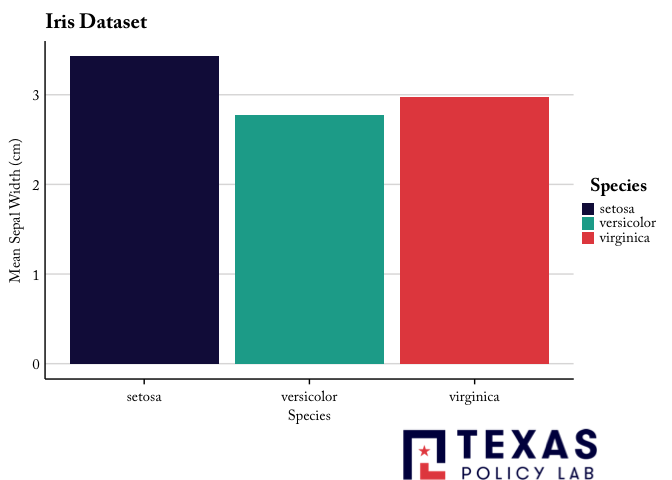
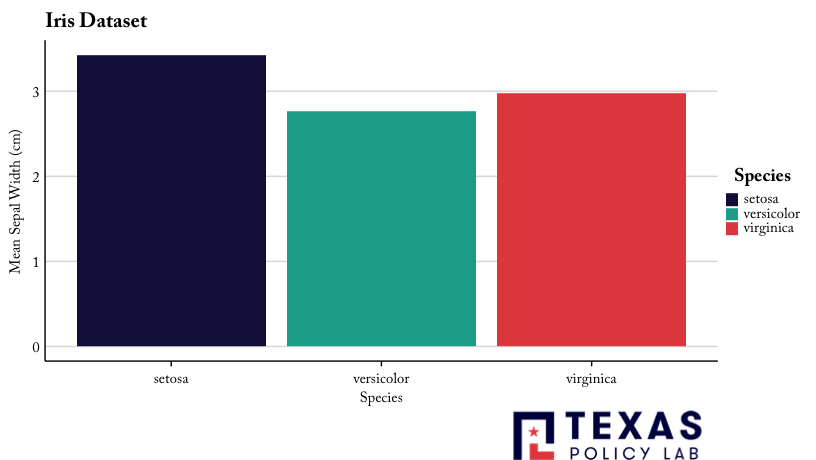
final (?) README/vignette update

diff --git a/README.md b/README.md
@@ -7,10 +7,11 @@
 
 ``` r
 if (!require('devtools')) install.packages('devtools')
-config <- yaml::read_yaml("https://raw.githubusercontent.com/connorrothschild/tpltheme/master/config.yaml", eval.expr = TRUE)
 library(ggplot2)
-#library(tpltheme)
-devtools::load_all()
+library(tidyverse)
+
+devtools::install_github("connorrothschild/tpltheme")
+library(tpltheme)
 ```
 
 ## Plotting
@@ -29,23 +30,22 @@ The user is able to specify whether they want to use *Lato* or *Adobe
 Caslon Pro* in their figures.
 
 To ensure that these fonts are installed and registered, use
-`font_test()`. If fonts are not properly installed, install both fonts
-online and then run `font_install()`.
+`tpl_font_test()`. If fonts are not properly installed, install both
+fonts online and then run `tpl_font_install()`.
 
 ``` r
-font_test()
+tpl_font_test()
 ```
 
-    #> [1] "Lato isn't imported and registered. Install the font online and import and register using font_install()."
+    #> [1] "Adobe Caslon Pro is not imported and registered. Install the font online and import and register using font_install(). If that presents problems, try using sysfonts::font_add('Adobe Caslon Pro', regular = 'Adobe Caslon Pro.ttf') with your downloaded font name taking the place of 'Adobe Caslon Pro.ttf.'"
 
 ``` r
-font_install()
+tpl_font_install()
 ```
 
     #> Importing fonts may take a few minutes, depending on the number of fonts and the speed of the system.
-    #> Continue? [y/n]
-
-    #> [1] "Lato isn't imported and registered. Install the font online and import and register using font_install()."
+    #> Continue? [y/n] 
+    #> [1] "Adobe Caslon Pro is not imported and registered. Install the font online and import and register using font_install(). If that presents problems, try using sysfonts::font_add('Adobe Caslon Pro', regular = 'Adobe Caslon Pro.ttf') with your downloaded font name taking the place of 'Adobe Caslon Pro.ttf.'"
 
 ### Usage
 
@@ -56,8 +56,6 @@ Here are some examples of sample TPL plots with different specifications
 for `style` and `font`.
 
 ``` r
-#library(tidyverse)
-#library(tpltheme)
 set_tpl_theme(style = "print", font = "adobe")
 
 ggplot(iris, aes(x=Species, y=Sepal.Width, fill=Species)) +
@@ -65,7 +63,7 @@ ggplot(iris, aes(x=Species, y=Sepal.Width, fill=Species)) +
     labs(x="Species", y="Mean Sepal Width (cm)", fill="Species", title="Iris Dataset")
 ```
 
-![](man/figures/README-unnamed-chunk-4-1.png)<!-- -->
+<img src="man/figures/README-unnamed-chunk-4-1.png" style="display: block; margin: auto;" />
 
 ``` r
 set_tpl_theme(style = "print", font = "lato")
@@ -75,7 +73,7 @@ ggplot(iris, aes(x=jitter(Sepal.Width), y=jitter(Sepal.Length), col=Species, siz
     labs(x="Sepal Width (cm)", y="Sepal Length (cm)", col="Species", size = "Petal Length", title="Iris Dataset")
 ```
 
-![](man/figures/README-unnamed-chunk-5-1.png)<!-- -->
+<img src="man/figures/README-unnamed-chunk-5-1.png" style="display: block; margin: auto;" />
 
 By specifying `style = "Texas"` within `set_tpl_theme`, the user may
 also create Texas-specific plots.
@@ -94,7 +92,7 @@ ggplot2::ggplot(data = tx_vac, mapping = ggplot2::aes(x = long, y = lat, group =
        caption = "Source: Texas DSHS")
 ```
 
-![](man/figures/README-unnamed-chunk-6-1.png)<!-- -->
+<img src="man/figures/README-unnamed-chunk-6-1.png" style="display: block; margin: auto;" />
 
 And it also works for categorical variables:
 
@@ -114,7 +112,7 @@ tx_vac %>%
        caption = "Source: Texas DSHS")
 ```
 
-![](man/figures/README-unnamed-chunk-7-1.png)<!-- -->
+<img src="man/figures/README-unnamed-chunk-7-1.png" style="display: block; margin: auto;" />
 
 If the number of colors exceeds the number of colors in the TPL palette
 (9), the function `tpl_color_pal()` will drop the TPL color palette and
@@ -131,7 +129,7 @@ tx_vac %>%
   labs(title = "Texas Counties")
 ```
 
-![](man/figures/README-unnamed-chunk-8-1.png)<!-- -->
+<img src="man/figures/README-unnamed-chunk-8-1.png" style="display: block; margin: auto;" />
 
 ``` r
 # default to print afterwards
@@ -156,7 +154,7 @@ plot <- ggplot(iris, aes(x=jitter(Sepal.Width), y=jitter(Sepal.Length), col=Spec
 add_tpl_logo(plot)
 ```
 
-![](man/figures/README-unnamed-chunk-9-1.png)<!-- -->
+<img src="man/figures/README-unnamed-chunk-9-1.png" style="display: block; margin: auto;" />
 
 The user can specify the `position` of the logo as well as it’s `size`.
 The user is able to move the logo horizontally by specifying `align`.
@@ -167,7 +165,7 @@ shift it leftward:
 add_tpl_logo(tpl_plot_test(type = "barplot"), size = "small", position = "bottomright", align = -3)
 ```
 
-![](man/figures/README-unnamed-chunk-10-1.png)<!-- -->
+<img src="man/figures/README-unnamed-chunk-10-1.png" style="display: block; margin: auto;" />
 
 #### Logo Text
 
@@ -184,7 +182,7 @@ plot <- ggplot(iris, aes(x=jitter(Sepal.Width), y=jitter(Sepal.Length), col=Spec
 add_tpl_logo_text(plot)
 ```
 
-![](man/figures/README-unnamed-chunk-11-1.png)<!-- -->
+<img src="man/figures/README-unnamed-chunk-11-1.png" style="display: block; margin: auto;" />
 
 The user may also need to specify `align`, which moves the plot
 horizontally across the bottom of the page.
@@ -192,12 +190,12 @@ horizontally across the bottom of the page.
 ``` r
 plot <- ggplot(iris, aes(x=Species, y=Sepal.Width, fill=Species)) +
     geom_boxplot(show.legend = FALSE) +
-    labs(x="Species", y="Sepal Width (cm)", fill="Species", title="Iris Dataset", subtitle ="When specifying align = 1.5")
+    labs(x="Species", y="Sepal Width (cm)", fill="Species", title="Iris Dataset", subtitle ="When specifying align = 1")
     
-add_tpl_logo_text(plot, align = 1.5)    
+add_tpl_logo_text(plot, align = 1)    
 ```
 
-![](man/figures/README-unnamed-chunk-12-1.png)<!-- -->
+<img src="man/figures/README-unnamed-chunk-12-1.png" style="display: block; margin: auto;" />
 
 ### Additional Functions
 
@@ -218,7 +216,7 @@ ggplot(iris, aes(x=jitter(Sepal.Width), y=jitter(Sepal.Length), col=Species, siz
     drop_axis(axis = "y")
 ```
 
-![](man/figures/README-unnamed-chunk-13-1.png)<!-- -->
+<img src="man/figures/README-unnamed-chunk-13-1.png" style="display: block; margin: auto;" />
 
 #### Color Palettes
 
@@ -235,7 +233,7 @@ p3 <- view_palette(palette = palette_tpl_sequential)
 grid.arrange(p1, p2, p3, nrow = 1)
 ```
 
-![](man/figures/README-unnamed-chunk-14-1.png)<!-- -->
+<img src="man/figures/README-unnamed-chunk-14-1.png" style="display: block; margin: auto;" />
 
 These palettes were created using <http://colorbrewer2.org> and
 <http://coloors.co> and are colorblind friendly.
@@ -269,7 +267,7 @@ reversed <- ggplot(diamonds) +
 grid.arrange(normal, reversed, nrow = 1)
 ```
 
-![](man/figures/README-unnamed-chunk-15-1.png)<!-- -->
+<img src="man/figures/README-unnamed-chunk-15-1.png" style="display: block; margin: auto;" />
 
 #### Restore Defaults
 
@@ -278,12 +276,17 @@ settings and restores to ggplot defaults.
 
 ``` r
 undo_tpl_theme()
+```
+
+    #> [1] "All TPL defaults were removed and the tplthemes package has been effectively from the current environment. To restore TPL defaults, use set_tpl_theme()."
+
+``` r
 ggplot(iris, aes(x=jitter(Sepal.Width), y=jitter(Sepal.Length), col=Species, size = Petal.Length)) +
     geom_point() +
     labs(x="Sepal Width (cm)", y="Sepal Length (cm)", col="Species", size = "Petal Length", title="Iris Dataset")
 ```
 
-![](man/figures/README-unnamed-chunk-16-1.png)<!-- -->
+<img src="man/figures/README-unnamed-chunk-16-1.png" style="display: block; margin: auto;" />
 
 ## Reporting
 
